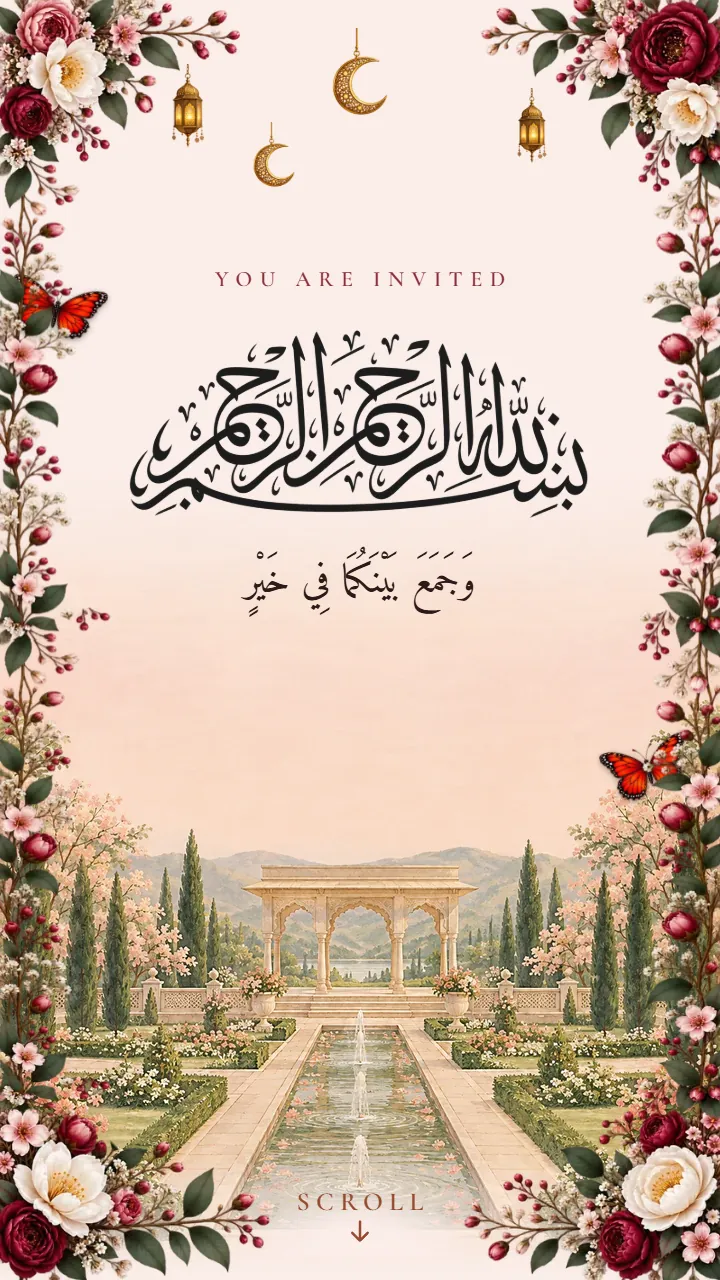
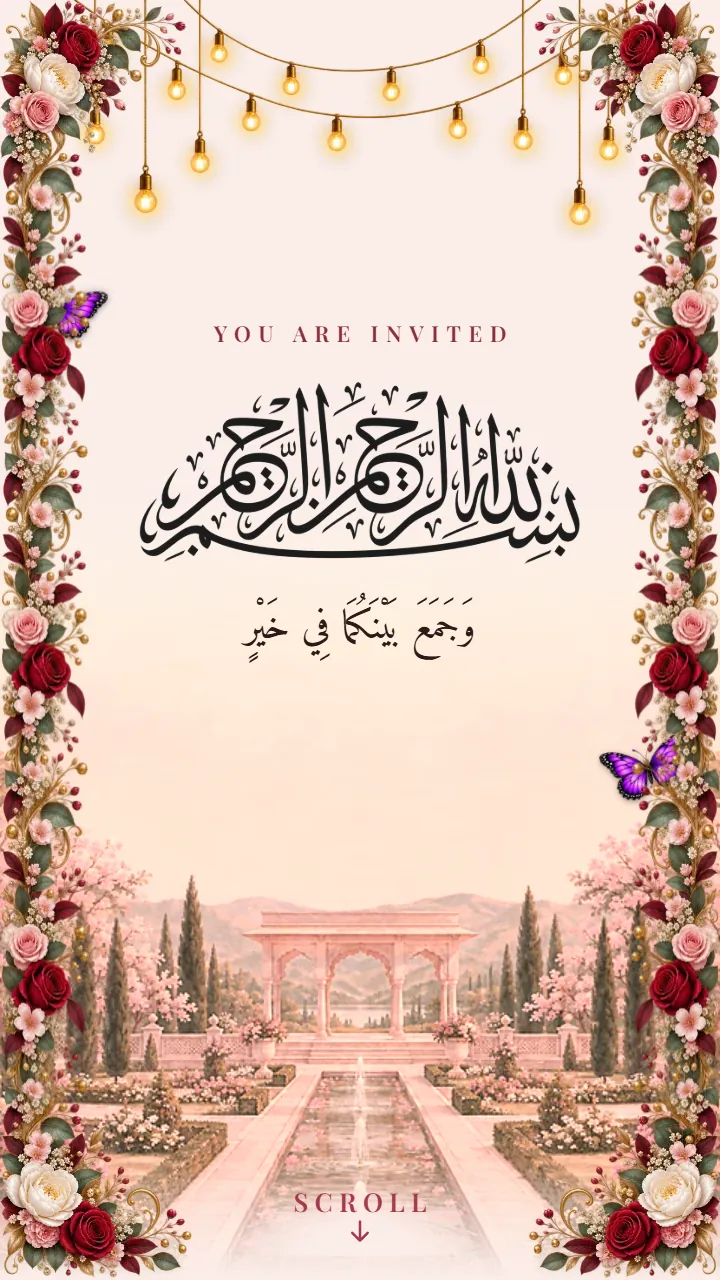
style(traditions): new look for Nikah Blush
Blush and rose throughout: pink, red and white roses down both sides (flowerBlush, in place of the ivory and red rose frame), the palace garden printed in rose (sceneTone), the card's accent cream's rose instead of blush's terracotta, and roses between sections. Strung lights hang at the head in place of the lantern and crescent, which stay Midnight Lantern's. Cherry blossom falls as it opens and purple butterflies fly, in place of rose petals and red butterflies. The cover is the rose opening (rose-bloom) instead of the breeze, and the names are in Parisienne (romantic). Bismillah, the greeting and the dua as before.

Gallery preview remade. Saved cards keep the look they were saved with.

diff --git a/lib/presets.ts b/lib/presets.ts
@@ -227,24 +227,27 @@ const PRESETS: readonly Preset[] = [
   {
     id: "nikah-blush",
     name: "Nikah Blush",
-    description: "Soft blush, a blossom frame, lanterns and a crescent moon.",
+    description: "Blush roses, a rose-lit garden, strung lights and cherry blossom.",
     tradition: "muslim",
     settings: {
       paletteId: "blush",
       textPairId: "ivoryRose",
-      accentOverride: null,
-      fontPairId: "elegant",
+      /* Cream's rose, not Blush's terracotta: the look is rose throughout. */
+      accentOverride: "#A4394F",
+      fontPairId: "romantic",
       density: "comfortable",
-      borderStyle: "flowerBackground",
+      /* Pink, red and white roses down both sides. */
+      borderStyle: "flowerBlush",
       decorMotion: "float",
       decorIntensity: "subtle",
-      butterflies: "red",
+      butterflies: "purple",
       leaves: false,
       petals: "open",
-      /* Rose, as it had before there was a choice: blush and red butterflies. */
-      petalFlower: "rose",
-      coverAnimation: "petal-dust",
-      ornaments: ["lantern", "crescentMoon"],
+      petalFlower: "cherryBlossom",
+      /* A red rose opening, for a look made of roses. */
+      coverAnimation: "rose-bloom",
+      /* Strung lights at the head, as at a nikah; the lanterns are Midnight Lantern's. */
+      ornaments: ["hangingLights"],
       calligraphy: "bismillah",
       greetingIfNone: "salam",
       blessingIfNone: "jamaBaynakuma",

diff --git a/templates/nikah-blush/config.ts b/templates/nikah-blush/config.ts
@@ -5,14 +5,17 @@ import type { TemplateConfig } from "@/templates/types";
 /**
  * The "nikah-blush" preset as a template: its look from lib/presets.ts, and
  * the colourways and type pairs a host may change it to. See presetTemplate.
+ *
+ * Its painting is the palace garden printed in rose, the one card with the
+ * garden by day; roses part its sections.
  */
 export const NIKAH_BLUSH: TemplateConfig = presetTemplate({
   presetId: "nikah-blush",
   preview,
   ownPaletteLabel: "Blush",
-  palettes: [
-    plain("ivory", "cream", "flowerIvory"),
-    plain("sand", "sand", "flowerGold"),
-  ],
-  fontPairs: ["royal", "graceful"],
+  palettes: [plain("ivory", "cream"), plain("sand", "sand")],
+  fontPairs: ["elegant", "graceful"],
+  scene: "palaceGarden",
+  sceneTone: "rose",
+  divider: "rose",
 });
